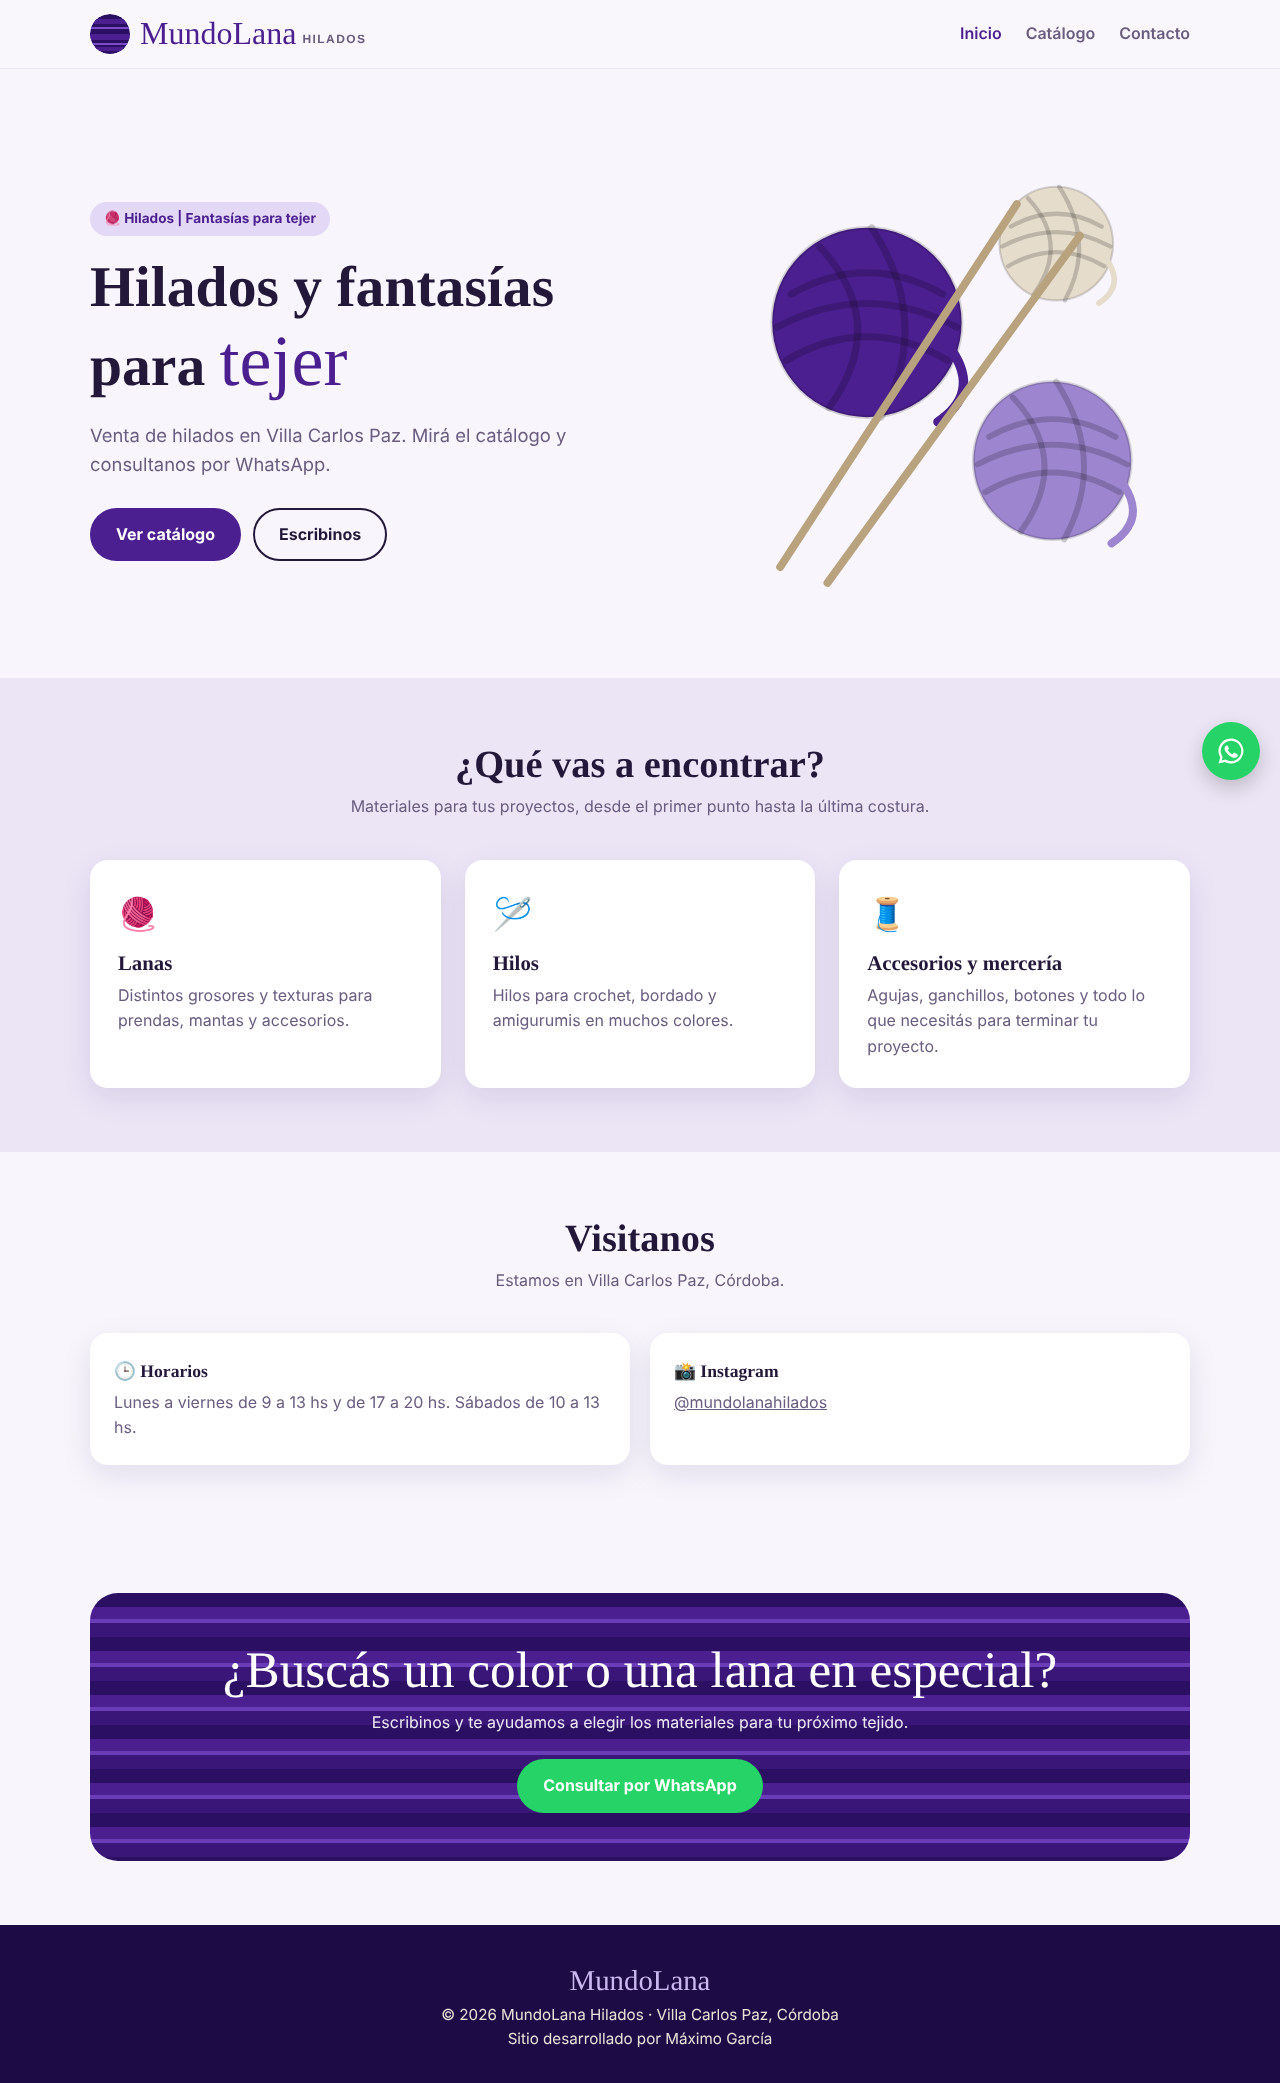
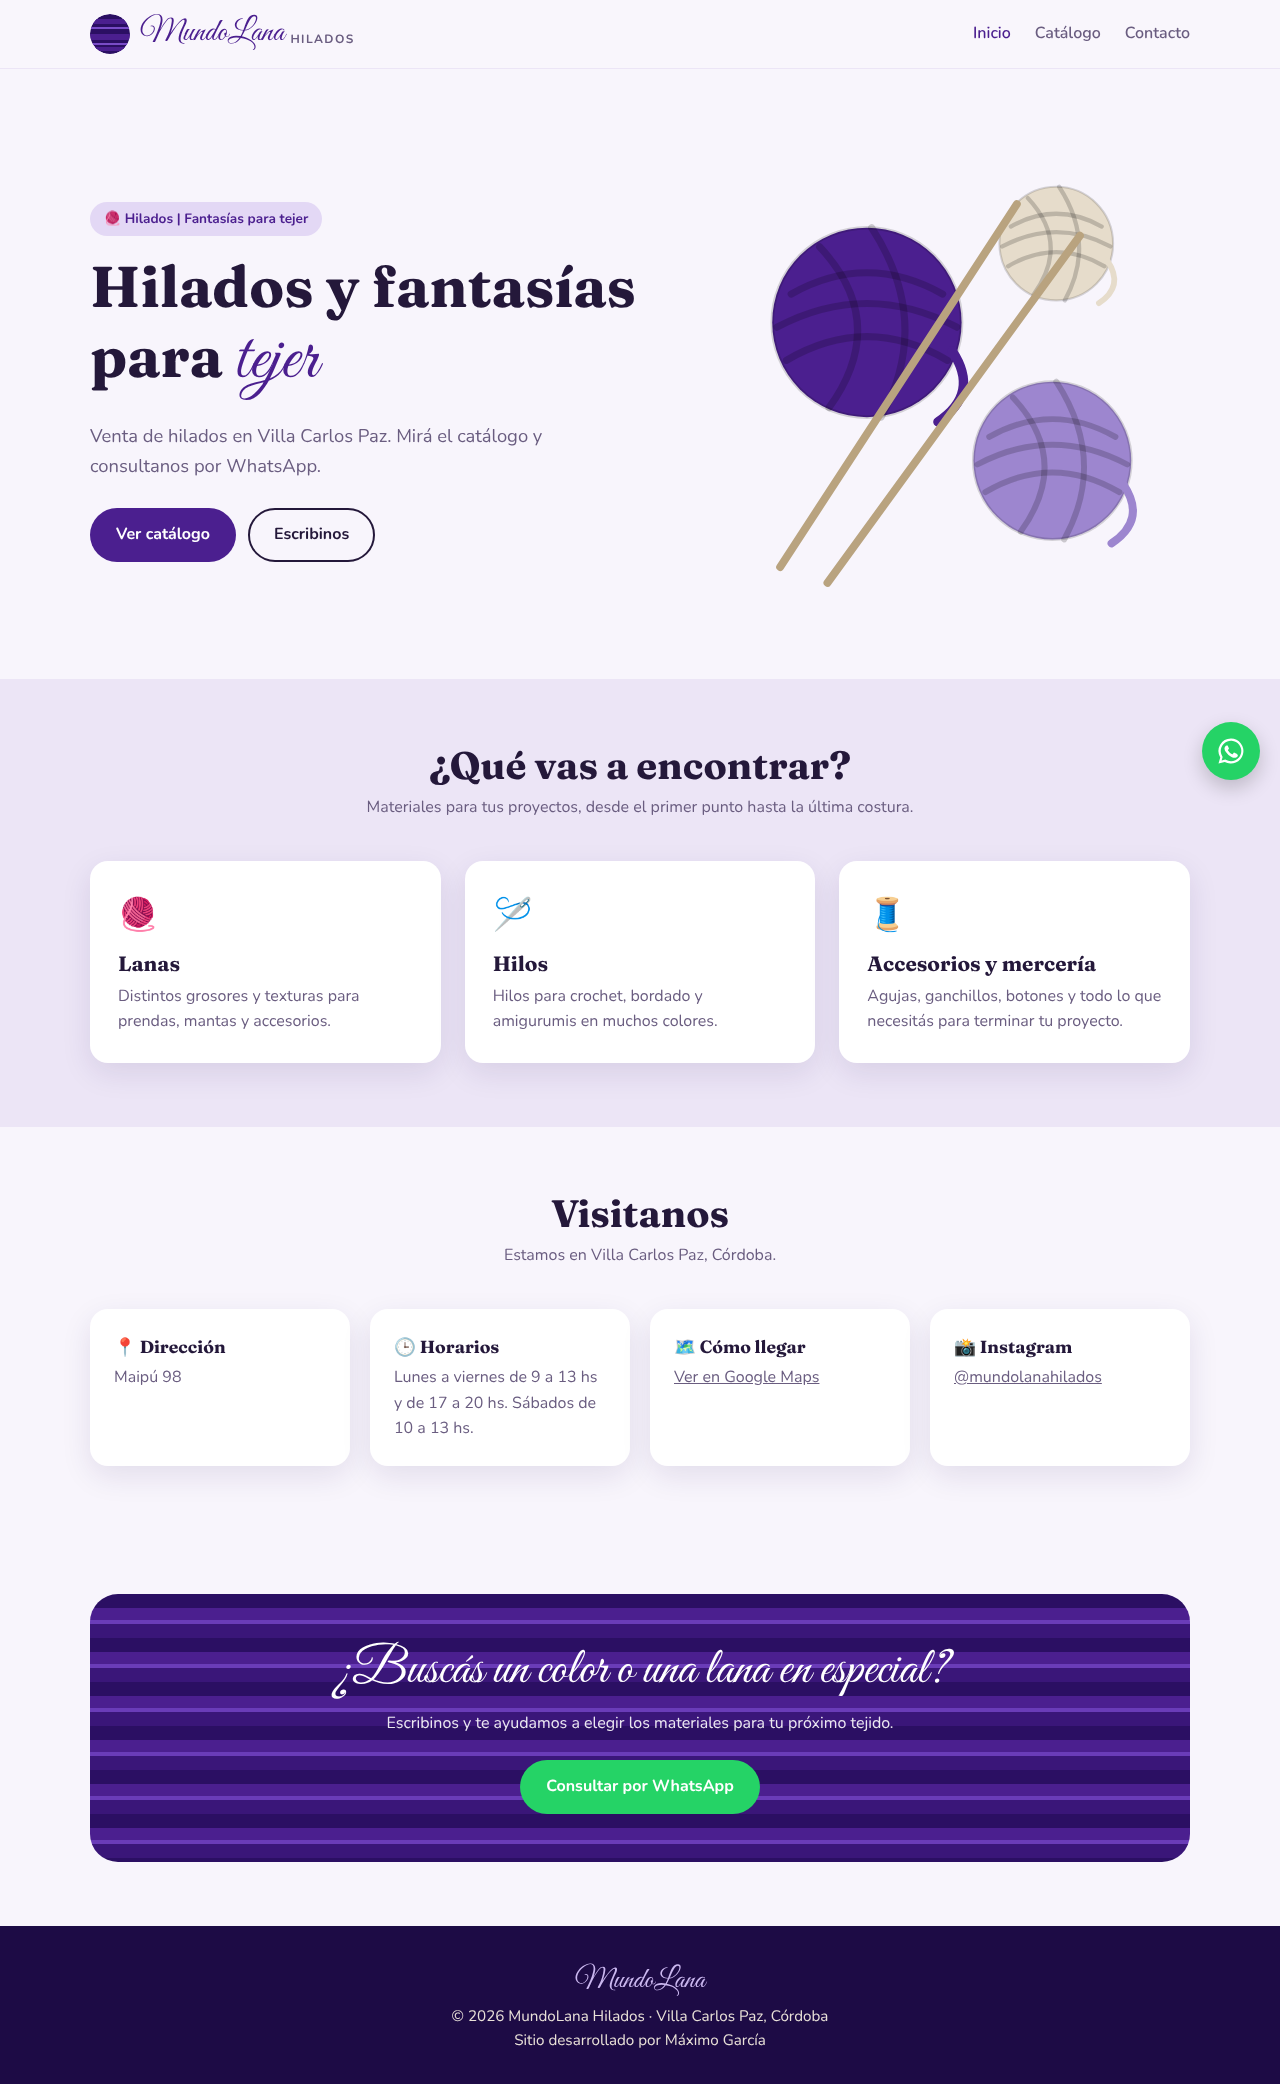
Actualiza las capturas del README (etapa 1)
Claude-Session: https://claude.ai/code/session_0175CQDQhy6CnmK8STkNoJGe

diff --git a/README.md b/README.md
@@ -9,7 +9,7 @@ La tienda necesitaba una web rápida y adaptada al celular. Ahí los clientes pu
 ## Pantallas
 
 - **Inicio (`index.html`):** presentación de la tienda, categorías de productos, datos de contacto y botón de WhatsApp.
-- **Catálogo (`catalogo.html`):** productos filtrables por categoría, selector de colores y consulta por WhatsApp de cada producto.
+- **Catálogo (`catalogo.html`):** productos filtrables por categoría, selector de colores con nombre, cantidad y consulta por WhatsApp de cada producto. El mensaje ya sale armado, por ejemplo: "Hola MundoLana Hilados, quería consultar por: Lana merino, color Violeta uva, 3 unidades. (Vengo de la web)".
 
 ## Tecnologías
 
@@ -86,5 +86,7 @@ Después de eso, cada cambio que llega a `main` se publica solo.
 ## Capturas
 
 ![Inicio](capturas/inicio.png)
+
+![Inicio en celular](capturas/inicio-celular.png)
 
 ![Catálogo en celular](capturas/catalogo-celular.png)
